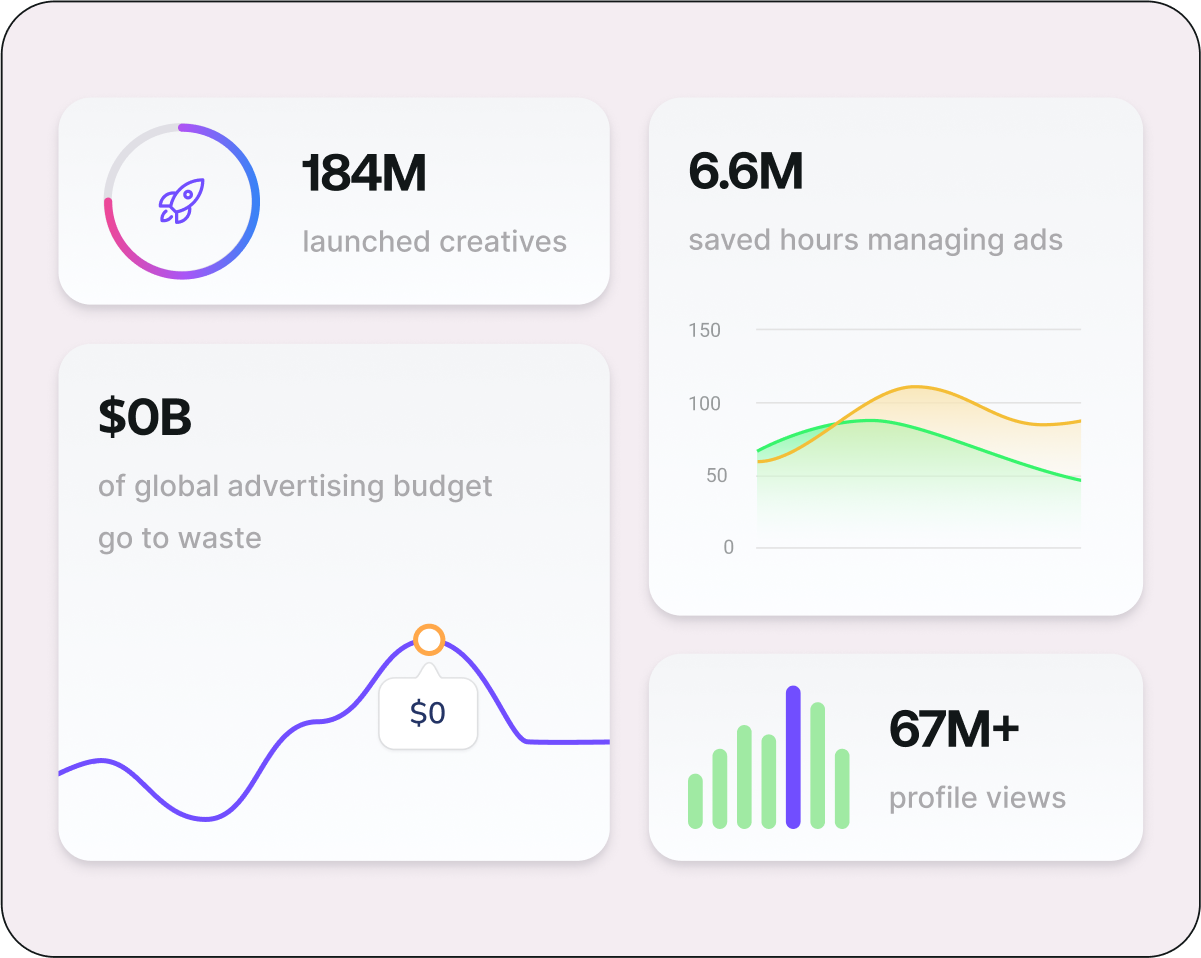
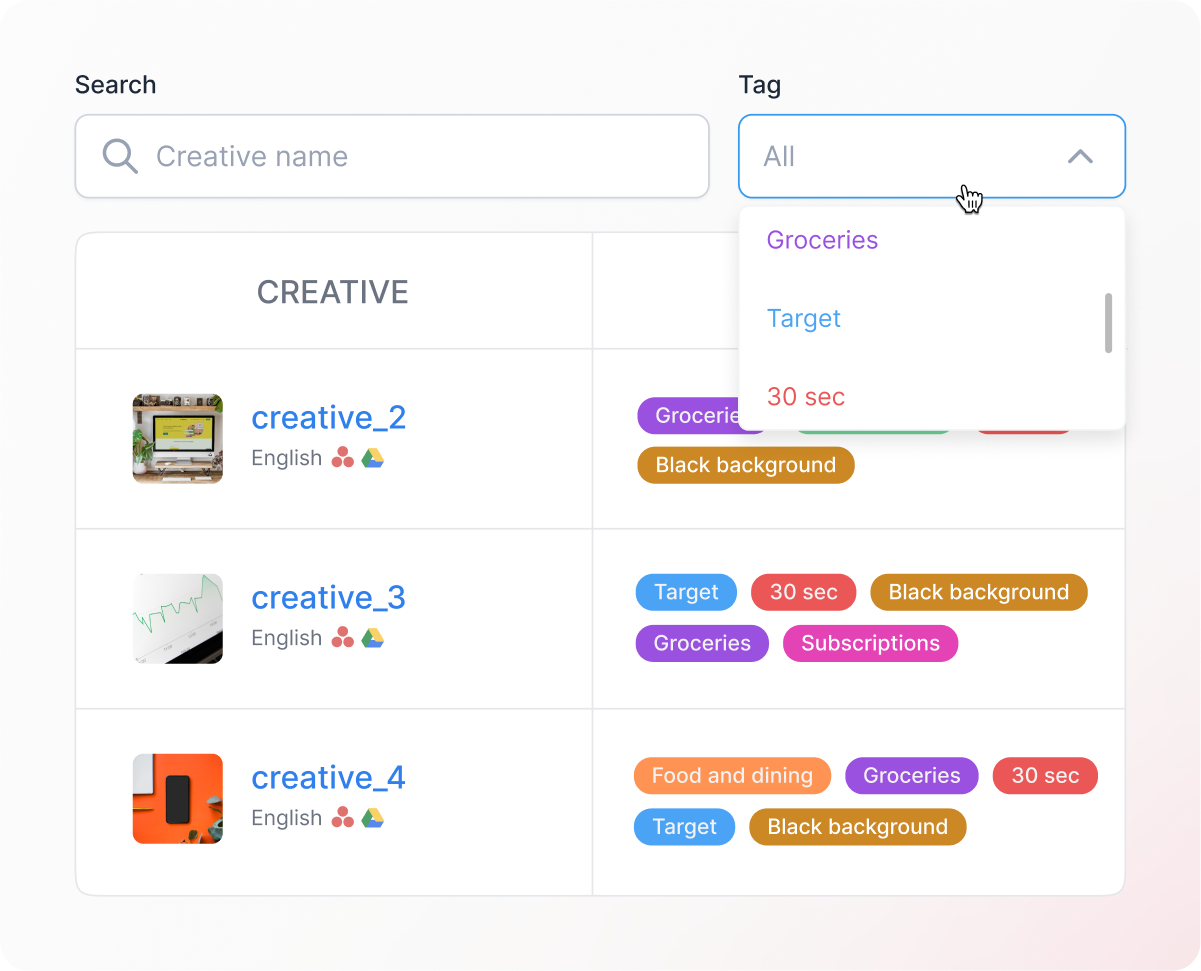
update features copy and images + og image

diff --git a/src/components/home/Features.vue b/src/components/home/Features.vue
@@ -43,32 +43,38 @@ export default {
           `,
         },
         {
-          image: 'instant',
+          image: 'cloud-sync',
+          // image: 'instant',
           badge: {
             label: 'Cloud Sync',
             background: '#ECFDF3',
             color: '#027A48',
           },
-          title: 'Instant asset upload',
+          title: 'One touch assets upload',
           description: `
             Forget about manual drag & drop routine — upload files in bulk via cloud sync.
             <br /><br />
-            Transfer whole folders from Google Drive with zero effort on your side.
+            Transfer videos & images from cloud storage to advertisement platform with zero effort on your side.
           `,
         },
         {
-          image: 'testing-launch',
+          image: 'smart-flow',
+          // image: 'testing-launch',
           badge: {
-            label: 'Testing Launch',
+            label: 'Smart Flows',
             background: '#F4F3FF',
             color: '#5925DC',
           },
-          title: 'Cross-platform testing launch',
+          // title: 'Cross-platform testing launch',
+          title: 'Efortless launch to Win',
           description: `
-            Launch creative tests simultaneously on various platforms with just one click.
+            Test multiple ads with ease using dynamic flows.
             <br /><br />
-            Have the peace of mind knowing that Scalemate will pause completed campaigns while you sleep.
+            Launch with a click and Scalemate pick the top performers using your success criteria.
           `,
+            // Launch creative tests simultaneously on various platforms with just one click.
+            // <br /><br />
+            // Have the peace of mind knowing that Scalemate will pause completed campaigns while you sleep.
         },
       ]
     }
